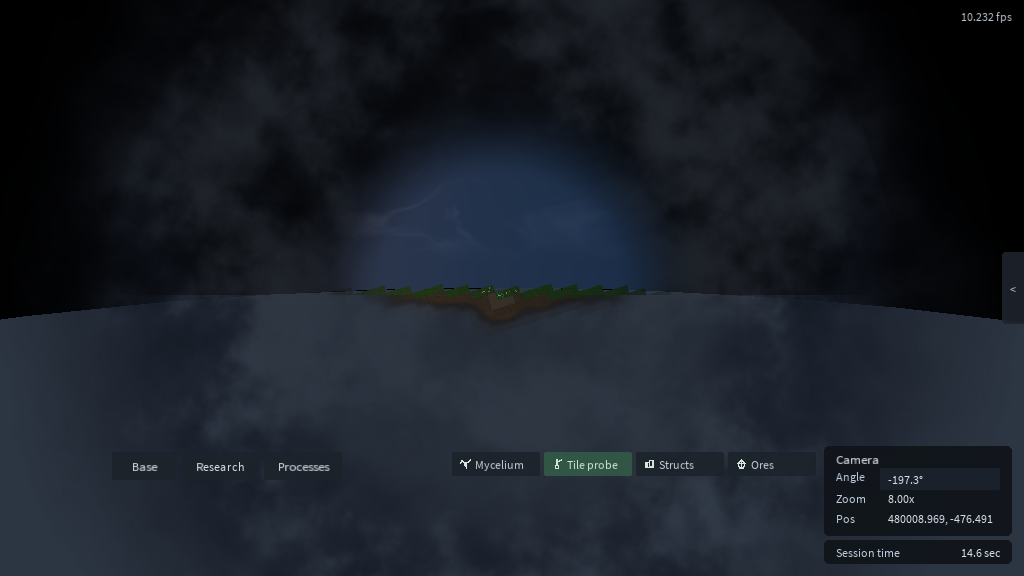
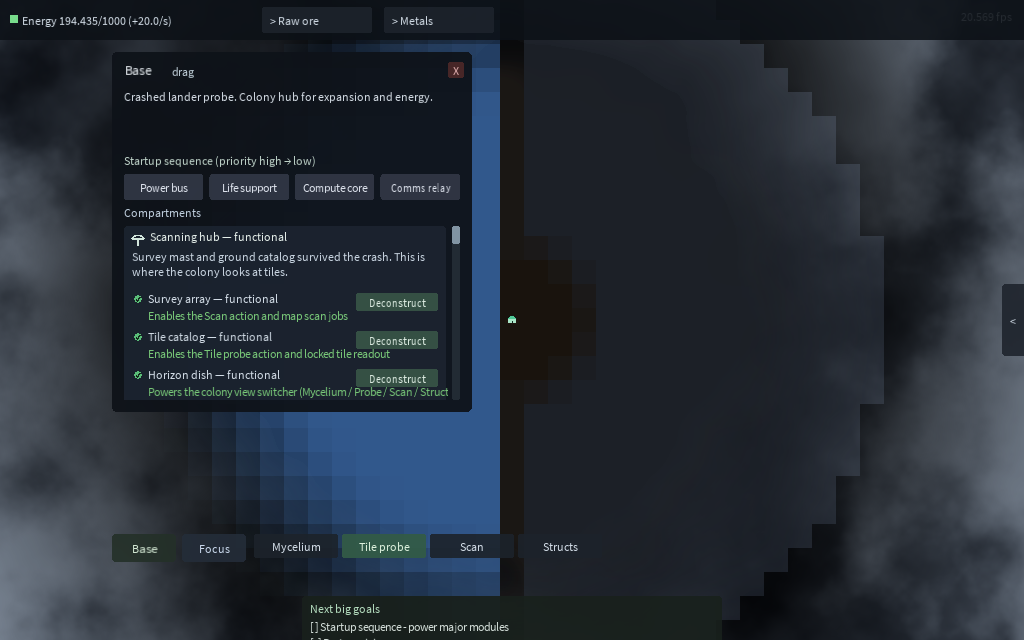
Rewrite Protocol Kardashev in plain English and drop proof shots.
Replace cool-narrator copy with normal game-page prose, swap the foggy colony proof for a Base map vista, and remove fog/tile-probe frames that read like test evidence.

diff --git a/protocol-kardashev.html b/protocol-kardashev.html
@@ -3,7 +3,7 @@
 <head>
     <meta charset="UTF-8">
     <meta name="viewport" content="width=device-width, initial-scale=1.0">
-    <meta name="description" content="Protocol Kardashev is a game about aggressive expansion and climbing the Kardashev scale by building machines with your own intelligence. An early development build by Nick Voorham.">
+    <meta name="description" content="Protocol Kardashev is a game about expanding aggressively and climbing the Kardashev scale by building machines with your own intelligence. An early development build by Nick Voorham.">
     <title>Protocol Kardashev - Nick Voorham</title>
     <link href="https://cdn.jsdelivr.net/npm/bootstrap@5.3.2/dist/css/bootstrap.min.css" rel="stylesheet" integrity="sha384-T3c6CoIi6uLrA9TneNEoa7RxnatzjcDSCmG1MXxSR1GAsXEV/Dwwykc2MPK8M2HN" crossorigin="anonymous">
     <link rel="stylesheet" href="https://cdn.jsdelivr.net/npm/bootstrap-icons@1.11.1/font/bootstrap-icons.css">
@@ -21,121 +21,98 @@
                 <span class="badge bg-sight-2 rounded-5 px-3 py-2">Dev build</span>
             </div>
             <p class="fs-5 mx-auto" style="max-width: 42rem;">
-                You crash. You dig in. Then you expand hard.
-                The long goal is climbing the
+                A game about aggressive expansion and climbing the
                 <a target="_blank" rel="noopener noreferrer" href="https://en.wikipedia.org/wiki/Kardashev_scale">Kardashev scale</a>
                 by building machines with your own intelligence.
-                This page covers an early development build: playable, unfinished, and still changing.
+                This page is an early development build: playable, unfinished, and still changing.
             </p>
         </header>
 
         <section class="row align-items-center g-4">
             <div class="col-lg-6">
                 <figure class="figure mb-0 w-100">
-                    <img src="img/Protocol Kardashev menu.png" class="w-100 rounded" alt="Protocol Kardashev main menu with solar system backdrop">
-                    <figcaption class="figure-caption mt-2">The menu hangs over a live solar backdrop. From here you start a run, open Construction, or dig into Options.</figcaption>
+                    <img src="img/Protocol Kardashev menu.png" class="w-100 rounded" alt="Protocol Kardashev main menu with a solar system backdrop">
+                    <figcaption class="figure-caption mt-2">Main menu over a live solar system. New colony, Construction, Options.</figcaption>
                 </figure>
             </div>
             <div class="col-lg-6">
-                <h2>Not a cozy little outpost</h2>
-                <p class="fs-5">This is not the fantasy of a quiet colony that settles in and tends a garden. You wake up after a failed probe landing with cracked systems, short vision, and scrap in the dirt. The job is to take ground, grow influence, and keep pushing outward.</p>
-                <p class="fs-5 mb-0">Problems show up constantly. Power fails. Fog hides the crust. Research gates sit between you and the next tool. The game keeps handing you tools to answer those problems in more than one way, so the climb stays yours to figure out.</p>
+                <h2>What you do</h2>
+                <p class="fs-5">You land after a failed probe crash with broken systems and a small patch of ground you can see. From there the goal is to expand: take more land, grow your influence, and keep building outward.</p>
+                <p class="fs-5 mb-0">Problems keep showing up. Power runs out. Research blocks the next step. Fog covers most of the crust. The game gives you tools, and there is usually more than one way to deal with a problem, so you get to choose how to climb.</p>
             </div>
         </section>
 
         <section>
-            <h2>Climb the scale</h2>
-            <p class="fs-5">The north star is civilization scale. Dirt and scrap feed factories. Factories feed ships. Ships stretch toward ring slices, orbital rings, interplanetary stations, and star rings that can close into ring worlds. Planets stop being scenery and start looking like parts you might move someday.</p>
-            <p class="fs-5 mb-0">That ladder is huge. Early play stays close to the crash hub on purpose. You still dig, claim, research, and build, but every loop is meant to point at bigger machines and harder reach.</p>
+            <h2>Climb the Kardashev ladder</h2>
+            <p class="fs-5">The long goal is civilization scale. Scrap and dirt feed factories. Factories feed ships. Ships lead toward ring slices, orbital rings, interplanetary stations, and star rings that can close into ring worlds. Planets are not just background. Later on they are things you might move.</p>
+            <p class="fs-5 mb-0">That ladder is enormous. Early play stays near the crash site on purpose. You dig, claim land, research, and build, but each loop is meant to point at bigger machines and farther reach.</p>
         </section>
 
         <section>
-            <h2>A circle of sight in the mist</h2>
-            <p class="fs-5">You start under soft circular fog. What you have not earned stays unread. Outside the vision dome, the world does not hand you free intel on ores and structures.</p>
+            <h2>The crash hub</h2>
+            <p class="fs-5">You start small. A crashed lander, a bit of sight, and a Base panel for the systems that survived. Expand from there.</p>
             <div class="row g-4 my-2">
-                <div class="col-lg-6">
+                <div class="col-lg-10 mx-auto">
                     <figure class="figure mb-0 w-100">
-                        <img src="img/Protocol Kardashev colony.png" class="w-100 rounded" alt="Crash lander hub under circular fog vision">
-                        <figcaption class="figure-caption mt-2">The crash hub sits in a pale circle of sight while Base and Research wait low on the screen.</figcaption>
-                    </figure>
-                </div>
-                <div class="col-lg-6">
-                    <figure class="figure mb-0 w-100">
-                        <img src="img/Protocol Kardashev fog.png" class="w-100 rounded" alt="Soft circular fog of war on the surface">
-                        <figcaption class="figure-caption mt-2">Mist fades in a circle, not a hard box. Digging and claiming land push that circle outward.</figcaption>
+                        <img src="img/Protocol Kardashev colony.png" class="w-100 rounded" alt="Base overview open over the colony map at night">
+                        <figcaption class="figure-caption mt-2">Base open on the colony map. The lander, the scanning hub, and the next goals.</figcaption>
                     </figure>
                 </div>
             </div>
-            <p class="fs-5 mb-0">Tile probe is the close read: stone, ore, debris, empty air. Processes is the wide read: the scrap-to-stock graph that shows whether invent hubs and scrap processors are actually moving material. Both sit as panels you can drag while the planet keeps turning underneath.</p>
         </section>
 
         <section>
-            <h2>Tools for the next problem</h2>
+            <h2>Research unlocks the next tools</h2>
             <div class="row align-items-center g-4">
                 <div class="col-lg-6">
                     <figure class="figure mb-0 w-100">
-                        <img src="img/Protocol Kardashev research.png" class="w-100 rounded" alt="Theoretical research panel showing Mycelium understanding">
-                        <figcaption class="figure-caption mt-2">Theoretical research spends stock up front. Mycelium understanding is the early key that unlocks Claim land.</figcaption>
+                        <img src="img/Protocol Kardashev research.png" class="w-100 rounded" alt="Theoretical research panel with Mycelium understanding unlocked">
+                        <figcaption class="figure-caption mt-2">Theoretical research. Unlock mycelium, then claim land and grow outward.</figcaption>
                     </figure>
                 </div>
                 <div class="col-lg-6">
-                    <p class="fs-5">Early tools stay dark on purpose. Until mycelium makes sense, the growth network stays out of reach and construction without the right drones stays blocked. Research is the permission slip for the next layer of the planet.</p>
-                    <p class="fs-5 mb-0">Past that gate, a physics route sketches ore mining, smelting, and fabrication. Some of that climb already shapes what you can build. Some of it is still arriving. Either way, understanding is the gate, not a random drip of unlocks.</p>
+                    <p class="fs-5">Early tools stay locked until you understand them. Mycelium research opens the growth network. Without the right drones and research, construction stays blocked.</p>
+                    <p class="fs-5 mb-0">Past that, a physics path sketches ore mining, smelting, and fabrication. Some of that already changes what you can build. Some of it is still coming. Understanding is what opens the next layer.</p>
                 </div>
             </div>
         </section>
 
         <section>
-            <h2>Pipelines you can watch</h2>
+            <h2>Watch the pipelines</h2>
             <div class="row align-items-center g-4">
                 <div class="col-lg-7">
                     <figure class="figure mb-0 w-100">
-                        <img src="img/Protocol Kardashev processes.png" class="w-100 rounded" alt="Processes pipeline graph for scrap to stock">
-                        <figcaption class="figure-caption mt-2">Processes lays the material graph out in the open: what each stage eats, what it makes, and where you can click next.</figcaption>
+                        <img src="img/Protocol Kardashev processes.png" class="w-100 rounded" alt="Processes panel showing a scrap-to-stock pipeline">
+                        <figcaption class="figure-caption mt-2">Processes: scrap in, stock out, with each stage on the graph.</figcaption>
                     </figure>
                 </div>
                 <div class="col-lg-5">
-                    <p class="fs-5 mb-0">If a building is working, the overview should show the work. Buffers, bot use, power draw, and yields belong on the panel you already opened, so the sim never feels like a black box humming behind a static card.</p>
+                    <p class="fs-5 mb-0">If a building is working, you should see it. Buffers, bots, power, and yields sit on the panel you already opened, so you are not guessing what the colony is doing behind a static card.</p>
                 </div>
             </div>
         </section>
 
         <section>
             <h2>Build the machines yourself</h2>
-            <p class="fs-5">Construction turns landers and vessels into assemblies on a grid. Blocks connect, rotate, and carry systems. Hull plates are denser than frames. Thrusters add real push. Ghost placement tints green when a piece can attach and red when it cannot.</p>
+            <p class="fs-5">Construction is a grid editor for landers and vessels. Blocks connect, rotate, and hold systems. Hull plates are denser than frames. Thrusters add real push. Ghost placement turns green when a piece can attach and red when it cannot.</p>
             <div class="row align-items-center g-4 my-2">
                 <div class="col-lg-7">
                     <figure class="figure mb-0 w-100">
-                        <img src="img/Protocol Kardashev construction.png" class="w-100 rounded" alt="Construction editor with a lander design">
-                        <figcaption class="figure-caption mt-2">The Construction editor: palette on one side, a connected craft on the other, with mass, HP, thrust, and energy in the strip below.</figcaption>
+                        <img src="img/Protocol Kardashev construction.png" class="w-100 rounded" alt="Construction editor with a colony lander design">
+                        <figcaption class="figure-caption mt-2">Construction editor: pick blocks, wire a lander, check mass, thrust, and energy.</figcaption>
                     </figure>
                 </div>
                 <div class="col-lg-5">
-                    <p class="fs-5 mb-0">You can save full hull designs, or smaller blueprints to reuse later. When a new run starts, the built-in lander sits at the top of the picker, with custom landers waiting underneath if you have made any. The point is not picking a preset. The point is designing the next machine with your own head.</p>
+                    <p class="fs-5 mb-0">You can save full hull designs or smaller blueprints to reuse later. When a new run starts, the built-in lander is at the top of the picker, with your custom landers underneath if you have any. The idea is to design the next machine yourself, not only pick a preset.</p>
                 </div>
             </div>
-            <p class="fs-5 mb-0">Looking farther out, the same ideas stretch toward ring slices, orbital rings, interplanetary stations, and star rings. Each step up that ladder is enormous. The long fantasy stays huge even while the early crash site stays small enough to hold in your hands.</p>
-        </section>
-
-        <section>
-            <h2>Reading a single pixel</h2>
-            <div class="row align-items-center g-4">
-                <div class="col-lg-7">
-                    <figure class="figure mb-0 w-100">
-                        <img src="img/Protocol Kardashev tile probe.png" class="w-100 rounded" alt="Tile probe overview with materials pie chart">
-                        <figcaption class="figure-caption mt-2">Tile probe turns one crust cell into a small brief: makeup, debris, and what you can build once research allows.</figcaption>
-                    </figure>
-                </div>
-                <div class="col-lg-5">
-                    <p class="fs-5 mb-0">Inside vision, the probe is where the next dig or build decision happens. Outside vision, it stays quiet on purpose. The map only tells you what you have earned the right to know.</p>
-                </div>
-            </div>
+            <p class="fs-5 mb-0">Looking farther out, the same building ideas stretch toward ring slices, orbital rings, interplanetary stations, and star rings. Each step up is huge. The early crash site stays small enough to manage while the long goal stays big.</p>
         </section>
 
         <section>
             <h2>How it gets made</h2>
-            <p class="fs-5">Most of the game is drafted with AI help. That is not the whole story. Every piece still goes through me, Nick, before it counts. Creative direction especially. If the tone, the fantasy, or the next goal feels off, I send it back.</p>
-            <p class="fs-5 mb-0">So the build moves fast, but it stays mine. An early development workshop aimed at aggressive expansion, smarter machines, and a long climb up the Kardashev ladder.</p>
+            <p class="fs-5">Most of the game is drafted with AI help. That is not the whole story. Everything still goes through me, Nick, before it counts. Creative direction especially. If the tone, the fantasy, or the next goal feels wrong, I send it back.</p>
+            <p class="fs-5 mb-0">So the build moves quickly, but it stays mine. An early development build aimed at aggressive expansion, smarter machines, and a long climb up the Kardashev ladder.</p>
         </section>
 
         <p class="back-link">

diff --git a/index.html b/index.html
@@ -182,7 +182,7 @@
                                         <div class="p-4 pt-3">
                                             <p class="badge bg-sight-2 rounded-5 p-2 mb-3 me-1">Game</p>
                                             <p class="badge bg-sight-2 rounded-5 p-2 mb-3 me-1">Dev build</p>
-                                            <p class="card-text">Crash, expand hard, and climb the <a target="_blank" rel="noopener noreferrer" href="https://en.wikipedia.org/wiki/Kardashev_scale">Kardashev scale</a> by building machines with your own intelligence. An early development build.</p>
+                                            <p class="card-text">Aggressive expansion and a climb up the <a target="_blank" rel="noopener noreferrer" href="https://en.wikipedia.org/wiki/Kardashev_scale">Kardashev scale</a> by building machines with your own intelligence. An early development build.</p>
                                             <a href="protocol-kardashev.html" class="card-link rounded-5 btn bg-read">Read more</a>
                                         </div>
                                     </div>
